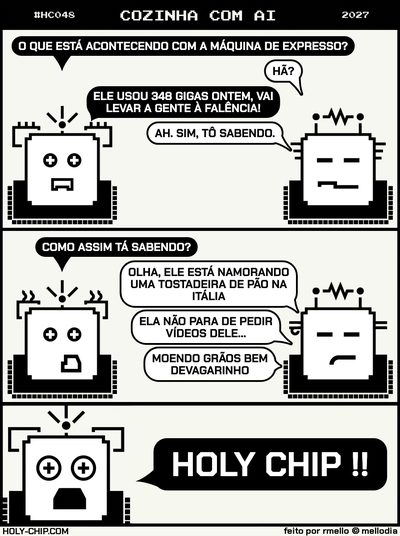
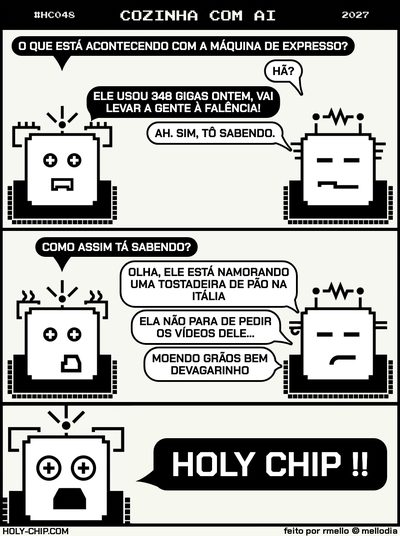
HC048 PT: 'OS VÍDEOS DELE' (re-lettered, transcript updated)

Changed region(s): [[0.39, 0.5672, 0.69, 0.6269]]

diff --git a/origins/HC048.html b/origins/HC048.html
@@ -561,7 +561,7 @@
           </div>
           <div class="dialog-line">
             <span class="dialog-speaker-label">Chip 1</span>
-            <span class="dialog-text">ELA NÃO PARA DE PEDIR VÍDEOS DELE…</span>
+            <span class="dialog-text">ELA NÃO PARA DE PEDIR OS VÍDEOS DELE…</span>
           </div>
           <div class="dialog-line">
             <span class="dialog-speaker-label">Chip 1</span>
